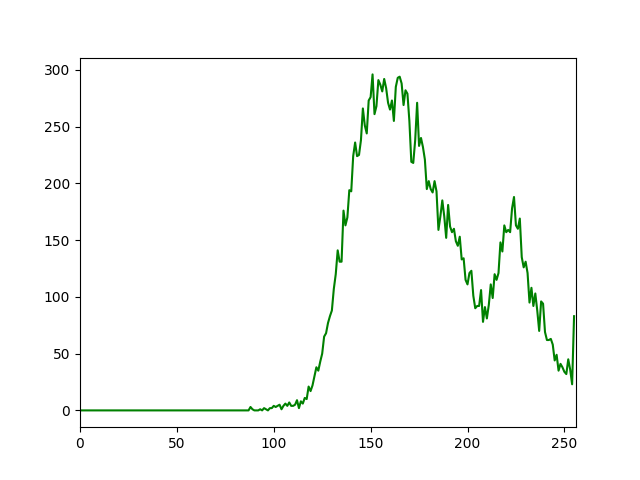
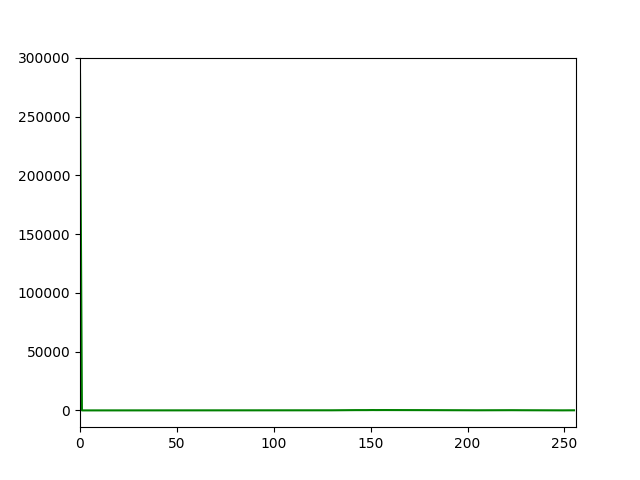
コード見直せ

diff --git a/judge.py b/judge.py
@@ -6,6 +6,7 @@ from PIL import Image
 img = cv2.imread("./hei/camera186.jpg")
 img1 = cv2.imread("./hei/camera181.jpg")
 img2 = cv2.imread("./hei/camera120.jpg")
+
 #img = cv2.cvtColor(img,cv2.COLOR_BGR2GRAY)
 h,w,d = img1.shape
     #フレームの青い部分を二値化
@@ -20,39 +21,35 @@ blue_threshold_present_img1 = img_processing2.cut_blue_img2(img)
 present_char_List1 , mask_present_img3 = img_processing2.mask_make(blue_threshold_present_img1)
 print(mask_present_img2.shape)
 cv2.imwrite("mask.jpg",mask_present_img3)
-dst = cv2.bitwise_and(img1,img1,mask=mask_present_img2)
-cv2.imshow("hh",dst)
+dst1 = cv2.bitwise_and(img,img,mask=mask_present_img2)
+cv2.imshow("hh",dst1)
 cv2.waitKey(0)
-cv2.imwrite("mask_p.jpg",dst)
+#cv2.imwrite("mask_p.jpg",dst)
 
 present_char_List1 , mask_present_img2 = img_processing2.mask_make(blue_threshold_present_img)
 hist_mask = cv2.calcHist([img],[0],mask_present_img2,[256],[0,256])
 color = ('b','g','r')
-img1[img1 >= 255] = 0
+
 dst = cv2.imread("./mask_p.jpg")
-target_color = (255, 255, 255)
 
-# 変更後の色
-change_color = (0, 0, 0)
-
-# 画像の縦横
-h, w = img.shape[:2]
-
-# 色の変更
-for i in range(h):
-    for j in range(w):
-        b, g, r = img[i, j]
-        if (b, g, r) == target_color:
-            img[i, j] = change_color
-#print(count)
-dst = cv2.bitwise_and(img2,img2,mask=mask_present_img2)
-cv2.imshow("hh",dst)
+dst2 = cv2.bitwise_and(img2,img2,mask=mask_present_img2)
+cv2.imshow("hh",dst2)
 cv2.waitKey(0)
-cv2.imwrite("dst.jpg",dst)
+cv2.imwrite("dst.jpg",dst2)
+#dst1[dst1 >= 255] = 0
+#dst2[dst2>= 255] = 0
 
+count1 =  sum(((r>0) and (g>0) and (b>0)) for d in dst1 for r,g,b in d)
+count2 =  sum(((r>0) and (g>0) and (b>0)) for d in dst2 for r,g,b in d)
+dst1_count = sum(((g>200) and (r>150)) for d in dst1 for r,g,b in d)
+dst2_count = sum(((g>200) and (r>150)) for d in dst2 for r,g,b in d)
+print(count1)
+print(count2)
+print(dst1_count)
+print(dst2_count)
 
 for i,col in enumerate(color):
-    histr = cv2.calcHist([img],[i],mask_present_img2,[256],[0,256])
+    histr = cv2.calcHist([dst1],[i],None,[256],[0,256])
     
     #histr += histr
 

diff --git a/hist.py b/hist.py
@@ -5,6 +5,7 @@ import cv2
 import img_processing2
 import numpy as np
 import matplotlib.pyplot as plt
+img2 = cv2.imread("./hei/camera120.jpg")
 from PIL import Image
 img = cv2.imread("./hei/camera186.jpg")
 img1 = cv2.imread("./hei/camera181.jpg")
@@ -47,15 +48,15 @@ for i in range(h):
         if (b, g, r) == target_color:
             img[i, j] = change_color
 #print(count)
-#dst = cv2.bitwise_and(img,img,mask=mask_present_img2)
+dst = cv2.bitwise_and(img,img,mask=mask_present_img2)
 cv2.imshow("hh",img1)
 cv2.waitKey(0)
 
 
 
-histr1 = cv2.calcHist([img],[0],mask_present_img2,[256],[0,256])
-histr2 = cv2.calcHist([img],[1],mask_present_img2,[256],[0,256])
-histr3 = cv2.calcHist([img],[2],mask_present_img2,[256],[0,256])
+histr1 = cv2.calcHist([img2],[0],None,[256],[0,256])
+histr2 = cv2.calcHist([img2],[1],None,[256],[0,256])
+histr3 = cv2.calcHist([img2],[2],None,[256],[0,256])
 # Figureを追加
 fig = plt.figure(figsize = (8, 8))
 
